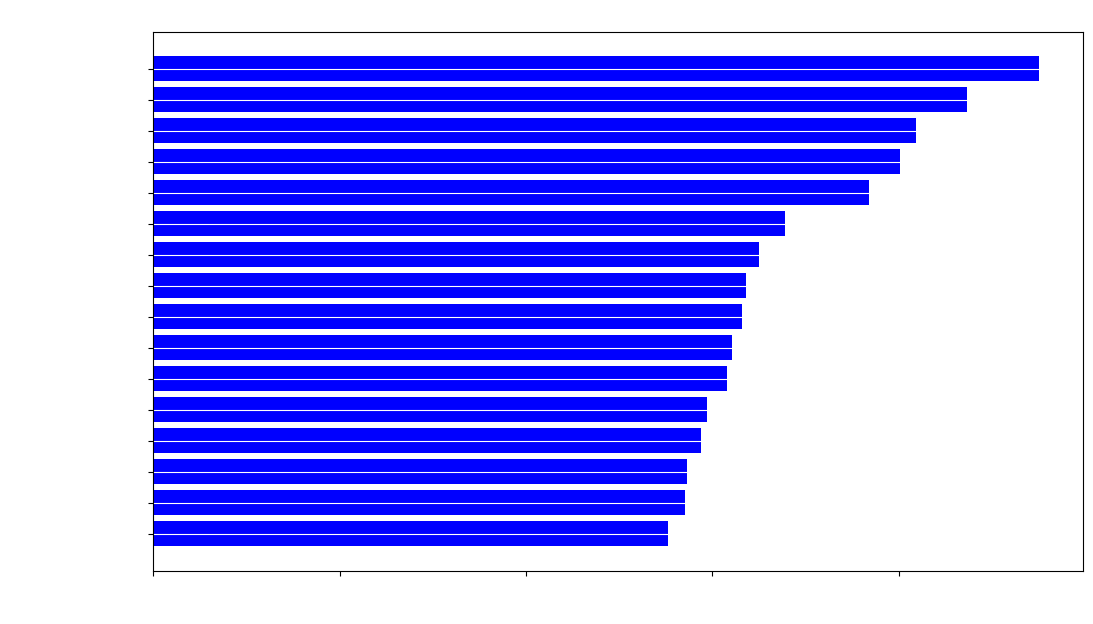
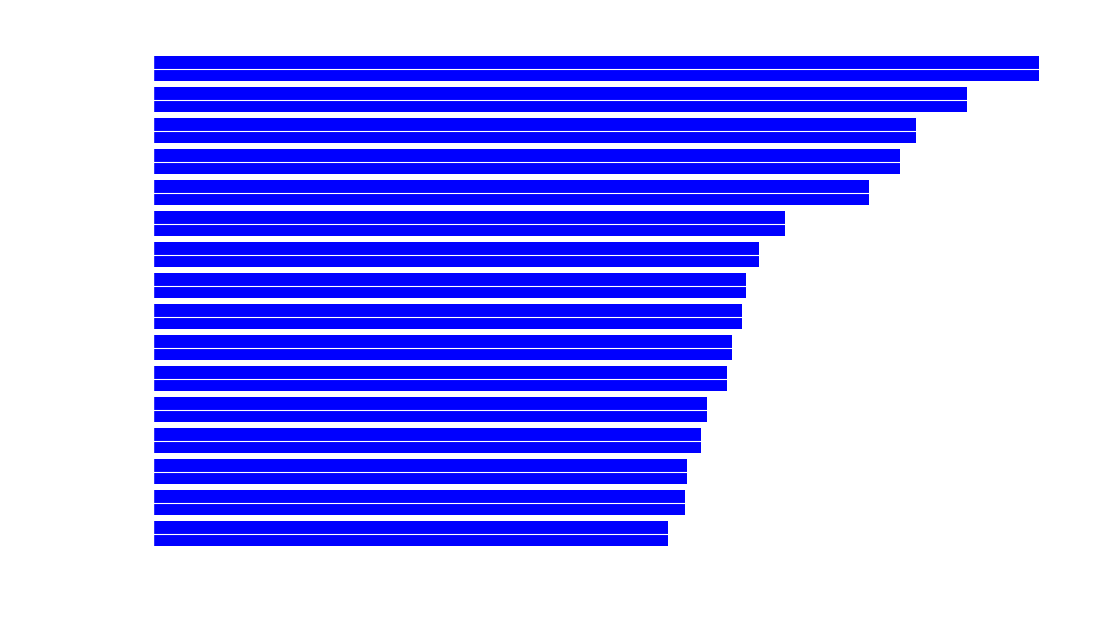
Переделка, pep, рефакторинг
Поправил график рамку делал черной теперь как должно быть для сайта

diff --git a/scripts/general_stats_page/3 Уровень зарплат по городам/Через modin_pandas/3.py b/scripts/general_stats_page/3 Уровень зарплат по городам/Через modin_pandas/3.py
@@ -1,13 +1,13 @@
 import os
-import ray  # Используется для работы с modin.pandas
-import modin.pandas as pd  # Многопоточный pandas
-import numpy as np
 import re
-import matplotlib.pyplot as plt
-import requests
 import time
 import xml.etree.ElementTree as ET
 from concurrent.futures import ThreadPoolExecutor
+import ray  # Используется для работы с modin.pandas
+import modin.pandas as pd  # Многопоточный pandas
+import numpy as np
+import matplotlib.pyplot as plt
+import requests
 
 
 def fetch_currency_rates(year, month, target_currencies):
@@ -22,7 +22,7 @@ def fetch_currency_rates(year, month, target_currencies):
     Returns:
         tuple: Ключ в формате 'YYYY-MM' и словарь с курсами валют.
     """
-    date_str = f"01/{month:02d}/{year}"
+    date_str = f"01/{month:02d}/{year}" # Форматируем дату для запроса
     url = f"https://cbr.ru/scripts/XML_daily.asp?date_req={date_str}"
 
     for attempt in range(40):
@@ -62,11 +62,13 @@ def fetch_all_currency_rates():
         dict: Словарь с курсами валют по месяцам.
     """
     target_currencies = ['BYR', 'USD', 'EUR', 'KZT', 'UAH', 'AZN', 'KGS', 'UZS', 'GEL']
-    rates = {}
-    
-    tasks = [(year, month, target_currencies) for year in range(2003, 2025) 
+
+    # Генерируем список задач для каждого месяца и года
+    tasks = [(year, month, target_currencies) for year in range(2003, 2025)
              for month in range(1, 13) if not (year == 2024 and month == 12)]
 
+    # Используем многопоточность для выполнения запросов
+    rates = {}
     with ThreadPoolExecutor() as executor:
         for key, monthly_rates in executor.map(lambda args: fetch_currency_rates(*args), tasks):
             rates[key] = monthly_rates
@@ -85,15 +87,17 @@ def calculate_average_salary(row, currency_rates):
     Returns:
         float: Средняя зарплата в рублях или NaN, если данные отсутствуют.
     """
-    salary_from = row['salary_from']
-    salary_to = row['salary_to']
-    currency = row['salary_currency']
-    date = row['data']
+    salary_from = row['salary_from'] # Минимальная зарплата
+    salary_to = row['salary_to'] # Максимальная зарплата
+    currency = row['salary_currency'] # Валюта зарплаты
+    date = row['data'] # Дата публикации вакансии
 
+    # Рассчитываем среднюю зарплату
     salary_avg = (salary_from + salary_to) / 2 if salary_from and salary_to else salary_from or salary_to
     if not salary_avg or currency == 'RUR' or not currency:
         return salary_avg
 
+    # Конвертируем в рубли, если валюта отличается
     return currency_rates.get(date, {}).get(currency, np.nan) * salary_avg if date in currency_rates else np.nan
 
 
@@ -107,7 +111,7 @@ def extract_year_month(date_value):
     Returns:
         str: Дата в формате 'YYYY-MM'.
     """
-    return str(date_value)[:7]
+    return str(date_value)[:7] # Извлекаем первые 7 символов
 
 
 def extract_year(date_value):
@@ -120,7 +124,7 @@ def extract_year(date_value):
     Returns:
         int: Год.
     """
-    return int(str(date_value)[:4])
+    return int(str(date_value)[:4]) # Извлекаем первые 4 символа
 
 
 def generate_html_table(dataframe):
@@ -137,11 +141,13 @@ def generate_html_table(dataframe):
     dataframe = dataframe.sort_values(by='avg_salary', ascending=False).dropna()
     dataframe.columns = ["Расположение", "Средняя Зарплата"]
 
+    # Генерируем HTML-код таблицы
     html_content = dataframe.to_html(index=False, border=1,
                                      classes='table table-dark table-bordered table-hover table-sm',
                                      float_format='{:,.0f}'.format)
     html_content = re.sub(r'text-align: right;', 'text-align: center;', html_content)
 
+    # Сохраняем таблицу в файл
     with open('salary_by_city.html', 'w', encoding='utf-8') as file:
         file.write(html_content)
 
@@ -160,12 +166,12 @@ def process_salary_data(dataframe, currency_rates):
         None
     """
     df_copy = dataframe.copy()
-    df_copy['data'] = df_copy['published_at'].apply(extract_year_month)
-    df_copy['avg_salary'] = df_copy.apply(lambda row: calculate_average_salary(row, currency_rates), axis=1)
-    df_copy = df_copy[df_copy['avg_salary'] < 10_000_000]
-    df_copy['year'] = df_copy['published_at'].apply(extract_year)
+    df_copy['data'] = df_copy['published_at'].apply(extract_year_month) # Извлекаем месяц и год
+    df_copy['avg_salary'] = df_copy.apply(lambda row: calculate_average_salary(row, currency_rates), axis=1) # Рассчитываем среднюю зарплату
+    df_copy = df_copy[df_copy['avg_salary'] < 10_000_000] # Убираем аномально высокие значения
+    df_copy['year'] = df_copy['published_at'].apply(extract_year) # Извлекаем год
 
-    pandas_df = df_copy._to_pandas()
+    pandas_df = df_copy._to_pandas() # Конвертируем DataFrame из Modin в pandas
 
     total_vacancies = pandas_df['name'].count()
     city_vacancy_counts = pandas_df['area_name'].value_counts()
@@ -179,23 +185,37 @@ def process_salary_data(dataframe, currency_rates):
 
     salary_data = salary_data[['area_name', 'avg_salary']].sort_values(by='avg_salary', ascending=True)
 
-    fig, ax = plt.subplots(figsize=(12, 7))
+    # Визуализация данных
+    _, ax = plt.subplots(figsize=(12, 7))
+    ax.set_facecolor('#25fc3b')
+    plt.gcf().set_facecolor('#25fc3b')
+    plt.style.use('dark_background')
+
+    # делаем рамку белой
+    for spine in ax.spines.values():
+        spine.set_edgecolor('white') # Цвет рамки
+        spine.set_linewidth(1) # Толщина рамки (можно уменьшить)
+
+    # Настройка цвета и толщины тиков (меток осей)
+    ax.tick_params(axis='both', colors='white', width=1)
+
     plt.title("Уровень зарплат по городам, где доля вакансий больше 1%", color='white')
     plt.barh(salary_data['area_name'], salary_data['avg_salary'], color='blue')
     plt.xlabel("Средняя зарплата", color='white')
     plt.xticks(color='white')
     plt.yticks(color='white')
     plt.grid(axis='y', color='white')
-    plt.savefig("salary_by_city.png", transparent=True, bbox_inches='tight')
+    plt.savefig("salary_by_city.png", transparent=True, bbox_inches='tight') # Сохраняем график
     plt.close()
 
-    generate_html_table(salary_data)
+    generate_html_table(salary_data) # Создаем HTML-таблицу
 
+if __name__ == "__main__":
+    # Настройка для работы с modin.pandas
+    os.environ["MODIN_ENGINE"] = "ray"
+    ray.init()
 
-# Настройка для работы с modin.pandas
-os.environ["MODIN_ENGINE"] = "ray"
-ray.init()
-
-dataframe = pd.read_csv("Z:\\vacancies_2024.csv", parse_dates=['published_at'])
-currency_rates = fetch_all_currency_rates()
-process_salary_data(dataframe, currency_rates)
+    # Читаем данные из CSV-файла
+    df = pd.read_csv("Z:\\vacancies_2024.csv", parse_dates=['published_at'])
+    curr_rates = fetch_all_currency_rates() # Получаем курсы валют
+    process_salary_data(df, curr_rates) # Обрабатываем данные и создаем визуализации
